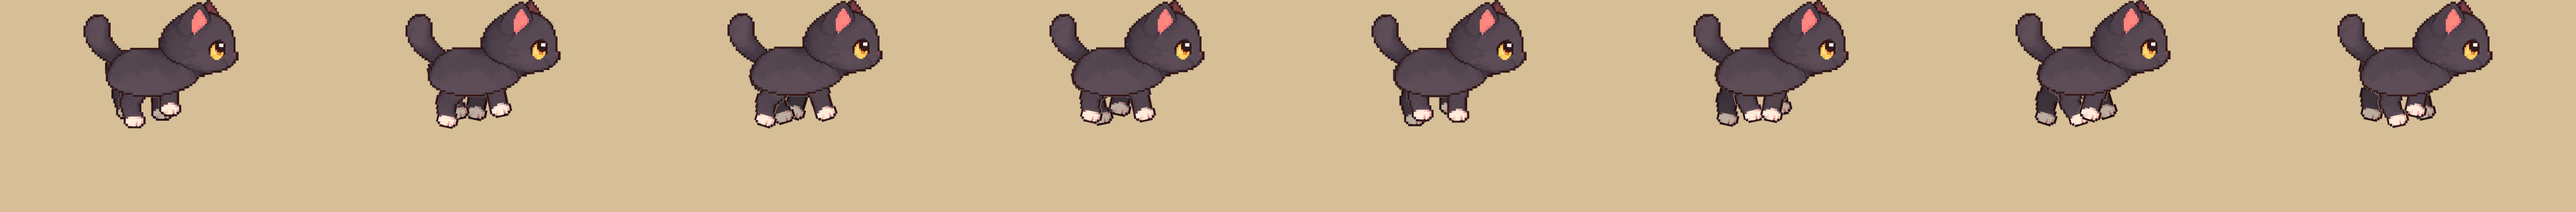
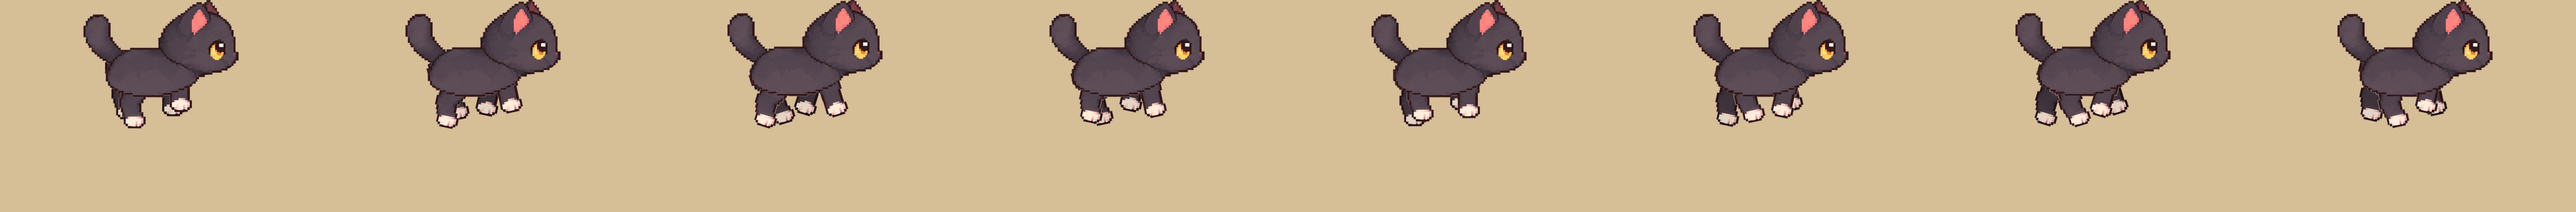
까망냥 걷기 교체: 컷아웃 8프레임(앞다리 더 앞으로, 먼 쪽 발끝 색 보정), 서 있기도 같은 그림으로
Claude-Session: https://claude.ai/code/session_0151zZFw6uP22PibeAJyxt4Z

diff --git a/여기까페냐옹/UnityProject/Assets/Scripts/Art/CatSheet.cs b/여기까페냐옹/UnityProject/Assets/Scripts/Art/CatSheet.cs
@@ -55,12 +55,13 @@ namespace YeogiCafe.Art
 
         // 리디자인 시트(4칸×13줄 이상): 기본 25칸 + 28번부터 추가 프레임
         //  28~31 뛰기 · 32~35 앉아 대기(32 꼬리왼 33 꼬리오 34 깜빡 35 갸웃) · 36~39 그루밍 · 40~41 먹기 · 42~43 꾹꾹이
-        //  44~45 잠 숨쉬기 · 46 졸린 식빵 · 47 귀 쫑긋 식빵 · 48~51 덮치기
-        // 걷기는 한 장을 깡총깡총(다리 그림을 AI가 프레임마다 일관되게 못 그려서).
+        //  44~45 잠 숨쉬기 · 46 졸린 식빵 · 47 귀 쫑긋 식빵 · 48~51 덮치기 · 52~59 걷기(컷아웃)
+        // 걷기: AI가 네 다리 순서를 못 지켜서, 부품(몸통·앞다리·뒷다리)을 받아 Tools/catart/newcats/cutout_parts.py로 생성.
         static readonly Dictionary<string, K[]> Map2 = new()
         {
-            ["walk"] = new[] { new K(4), new K(4, 0, 1), new K(4, 0, 2), new K(4, 0, 2), new K(4, 0, 1), new K(4), new K(4), new K(4) },
-            ["sniff"] = new[] { new K(4), new K(4, 1, -1), new K(4), new K(4, 1, -1), new K(4), new K(4) },
+            ["walk"] = Seq(52, 53, 54, 55, 56, 57, 58, 59),                       // 컷아웃 걷기 8프레임(부품 그림 + 다리 회전)
+            ["stand"] = Seq(52, 52, 52, 52, 52, 52, 52, 52),
+            ["sniff"] = new[] { new K(52), new K(52, 1, -1), new K(52), new K(52, 1, -1), new K(52), new K(52) },
             ["run"] = Seq(28, 29, 30, 31, 28, 29, 30, 31),
             ["sit"] = Seq(0, 0, 0, 0, 0, 0, 0, 0, 0, 0, 34, 0),
             ["gaze"] = Seq(0, 0, 0, 0, 0, 0, 0, 0, 35, 35),

diff --git a/여기까페냐옹/UnityProject/Tools/catart/newcats/cutout_parts.py b/여기까페냐옹/UnityProject/Tools/catart/newcats/cutout_parts.py
@@ -30,20 +30,23 @@ def rot(img, ang, pivot):
     return np.array(Image.fromarray(img).rotate(ang, resample=Image.BICUBIC, center=pivot))
 
 def darken(img, k=0.74):
-    o = img.copy(); o[..., :3] = (o[..., :3].astype(float) * k).astype(np.uint8); return o
+    # 먼 쪽 다리: 털만 어둡게, 밝은 발끝(분홍)은 조금만 → 회색 발끝 방지
+    o = img.copy(); rgb = o[..., :3].astype(float); lum = rgb.mean(2)
+    kk = np.where(lum > 150, 0.9, k)[..., None]
+    o[..., :3] = (rgb * kk).astype(np.uint8); return o
 
 def belly_y(body, x):
     col = np.where(body[:, int(x), 3] > 0)[0]
     return col.max() if len(col) else body.shape[0]
 
-def make(body, front, hind, n=8, swing=17, lift=0.10, bob=0.012, sink=0.55):
+def make(body, front, hind, n=8, swing=17, lift=0.10, bob=0.012, sink=0.55, front_fwd=0.07):
     bh, bw = body.shape[:2]
     fl_h, hl_h = front.shape[0], hind.shape[0]
     # 다리 뿌리 위치: 앞다리 = 몸 앞쪽 아래(가슴), 뒷다리 = 몸 뒤쪽 아래(엉덩이)
     m = body[..., 3] > 0; cols = np.where(m.any(0))[0]
     ys_bottom = np.array([belly_y(body, x) for x in cols])
     low = cols[ys_bottom >= ys_bottom.max() - bh * 0.08]          # 배 아랫선 구간
-    fx = low.max() - bw * 0.10; hx = low.min() + bw * 0.12
+    fx = low.max() - bw * 0.10 + bw * front_fwd; hx = low.min() + bw * 0.12
     legH = max(fl_h, hl_h); pad = int(legH * 1.2)
     H = bh + int(legH * (1 - sink)) + pad; W = bw + pad * 2
     frames = []
